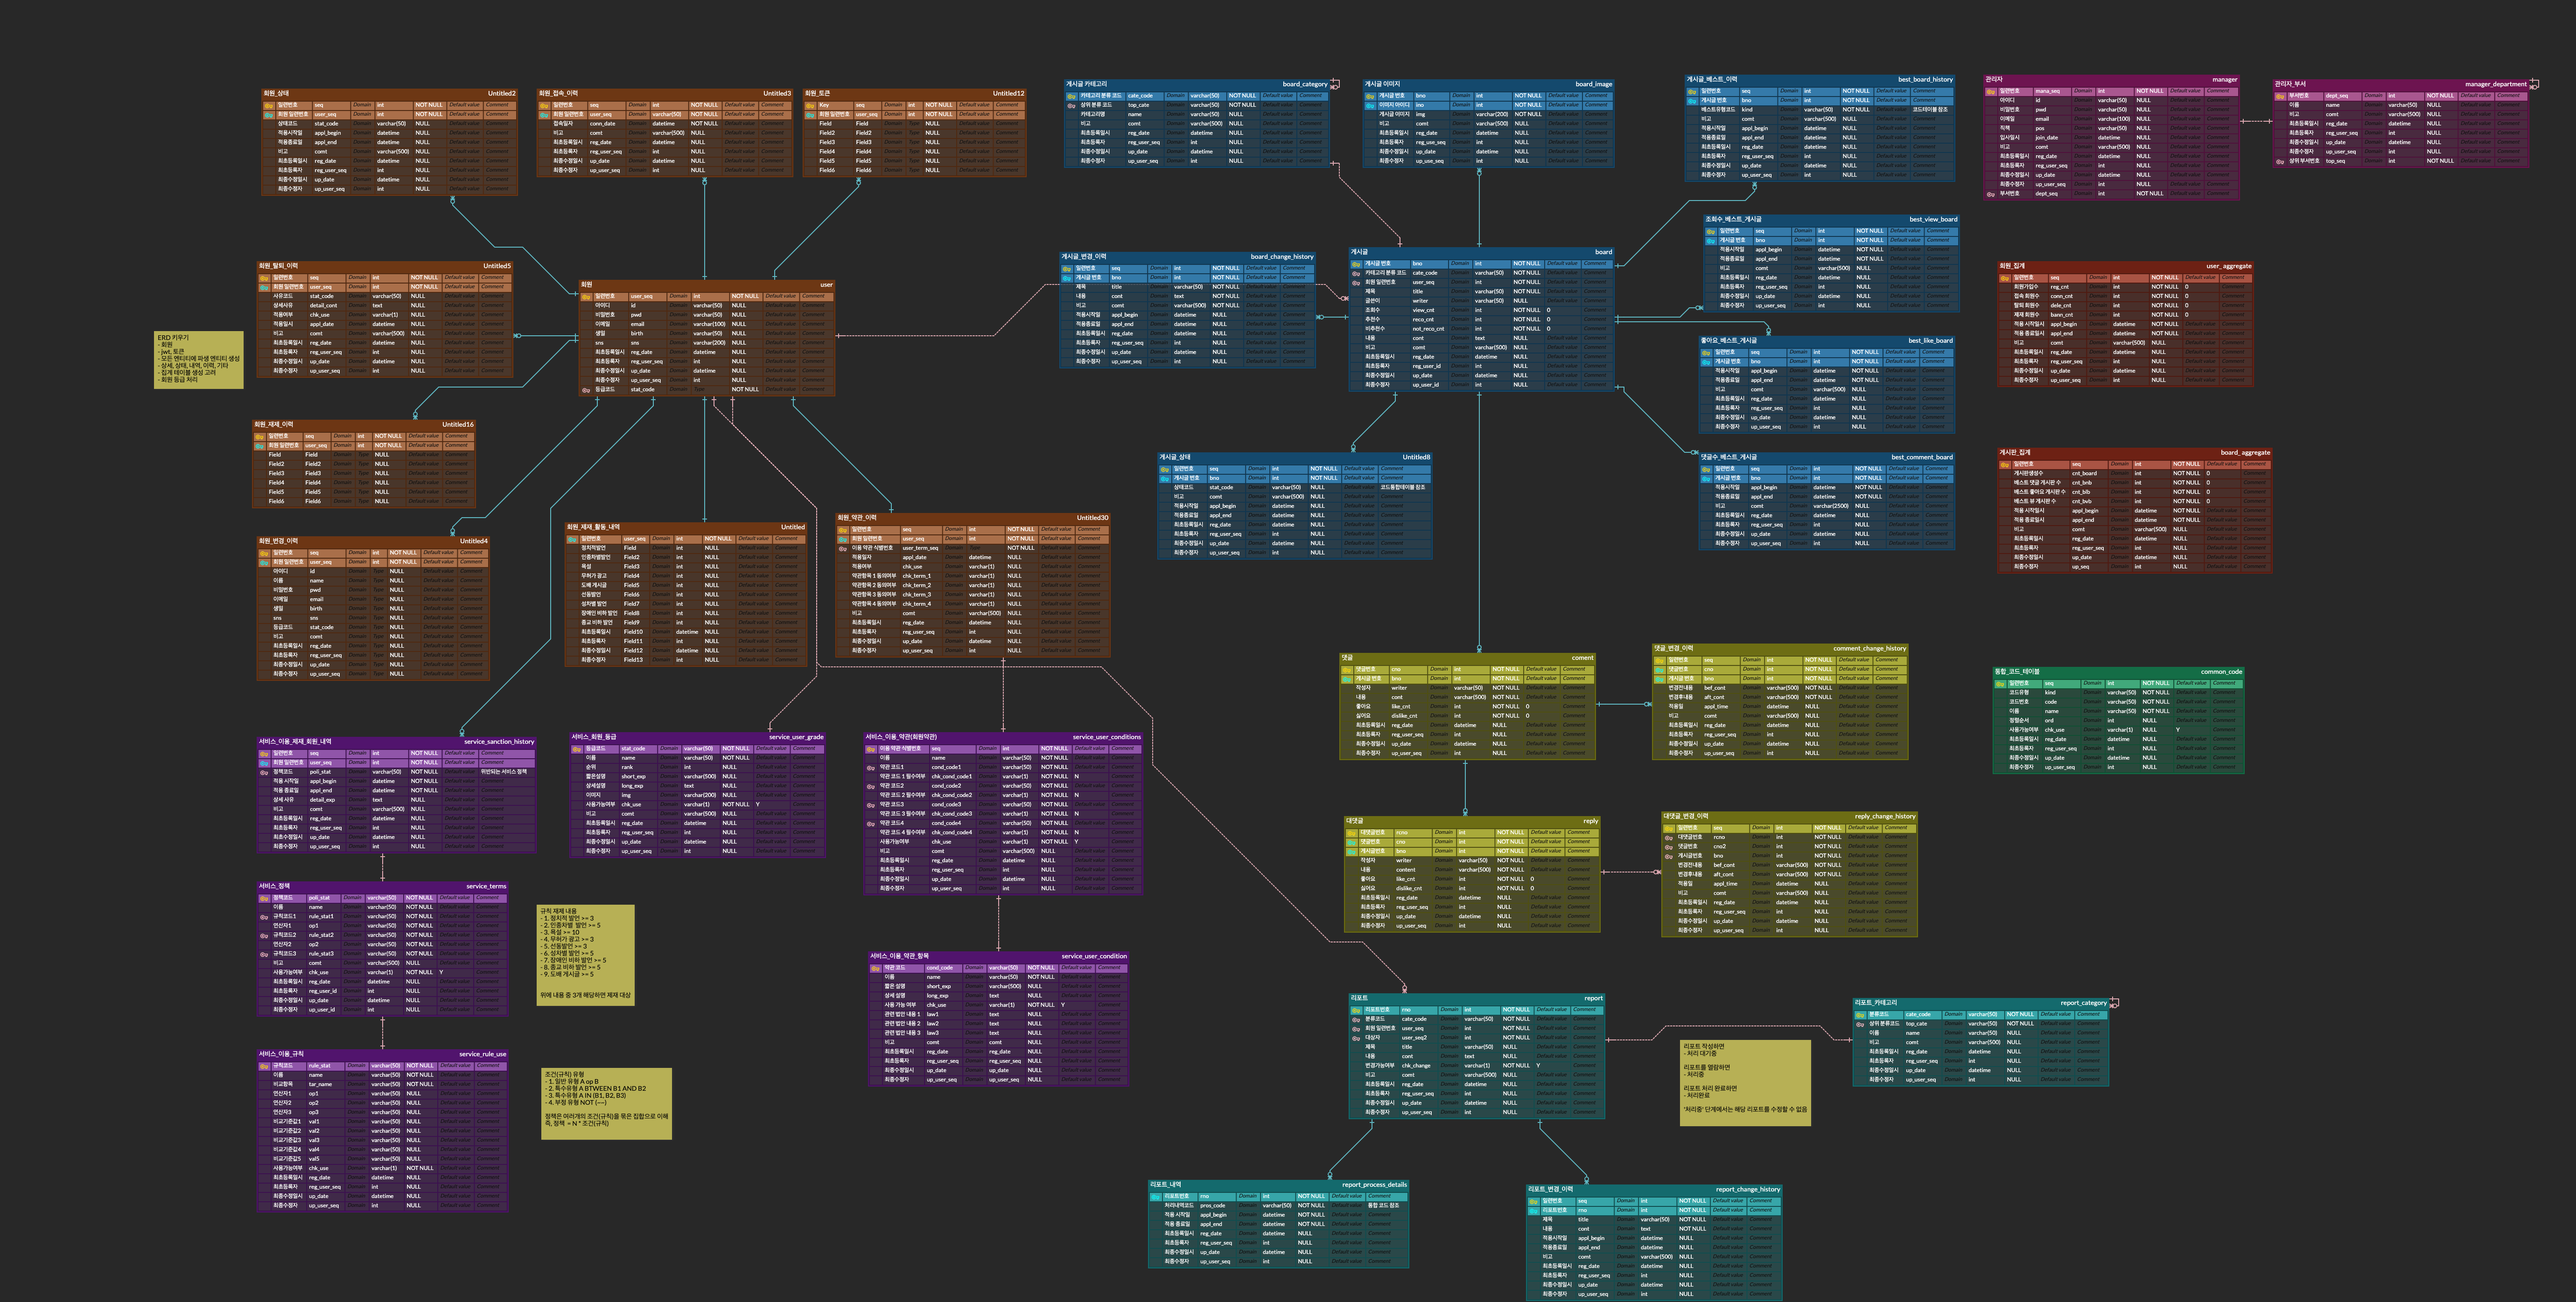
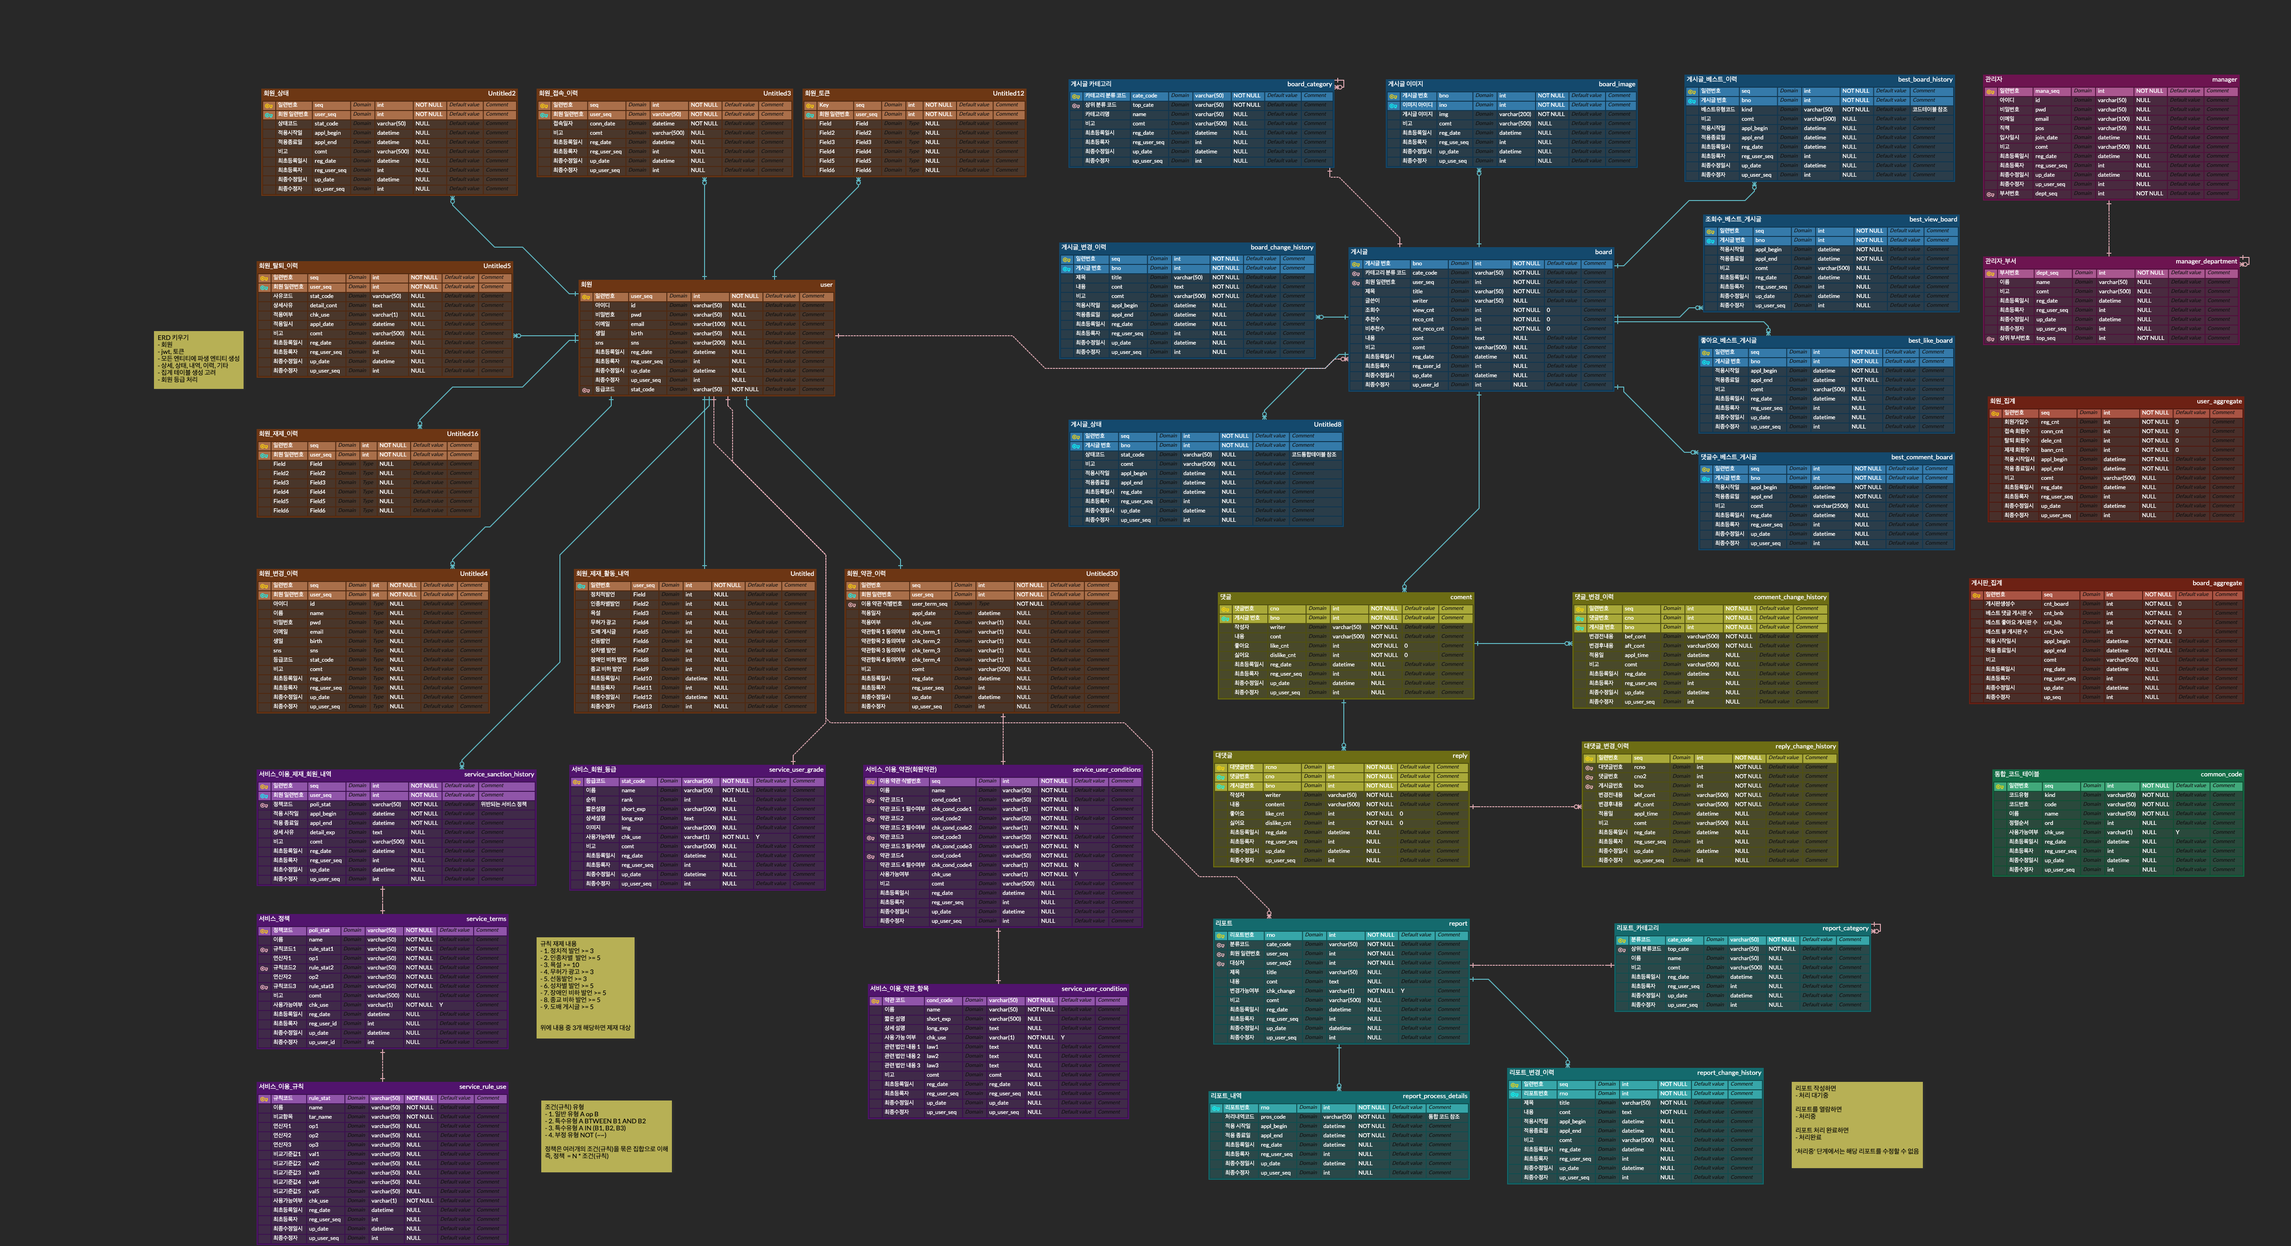
[chore] 리드미 파일 수정

diff --git a/README.md b/README.md
@@ -6,15 +6,22 @@
 > <strong>우리도 서로 멀리 떨어져 있으나 별들을  손으로 연결하듯이 이 프로젝트를 통해서 우리의 순간들이 이어지지 않을까요?</strong>
 > 이 생각으로 시작한 <strong>“Connecting Dots”</strong> 프로젝트를 소개합니다🥳
 
-_벤치마킹 사이트: 
+_벤치마킹 사이트: 디시인사이드, 티스토리
 
 <br>
 
-### 🏃🏻 프로젝트 기간 (30 days)
-> **전체 개발 기간: 2024.10.08 ~ 진행중 (4 Weeks | 60 %)**
-> - 기능 구현 기간: 2024.04.15 ~ 2024.05.19 (3 Weeks | 80 %) <br>
-> - UI 구현 기간: 2024.05.20 ~ 2024.05.28 (1 Week | 0 %) <br>
+### 🏃🏻 프로젝트 기간 (진행중)
+> **전체 개발 기간: 2025.01.03 ~ 진행중 ( Weeks |  %)**
+> - 서비스 정의 및 설계 : <br>
+> - 기능 구현 기간:  <br>
+> - UI 구현 기간: <br>
 
+
+<br>
+
+### 🧱 프로젝트 설계(ERD)
+
+<img src="description/erd모델링/connecting-dots-erd-modeling.png" height="800" width="1200">
 
 <br>
 
@@ -112,13 +119,6 @@ JavaScript   : 894 <br> </code></pre>
 
 #### Web Server
 
-<br>
-
-
-
-## ERD
-
-<img src="description/erd모델링/connecting-dots-erd-modeling.png" height="800" width="800">
 
 <br>
 <br>
